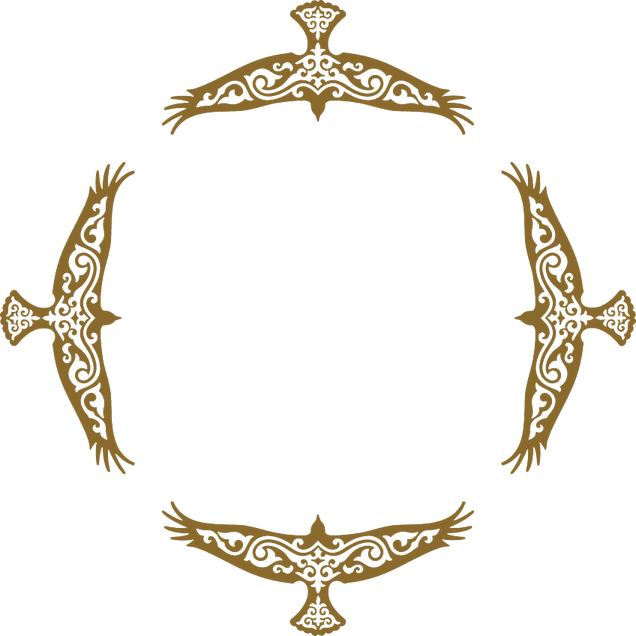
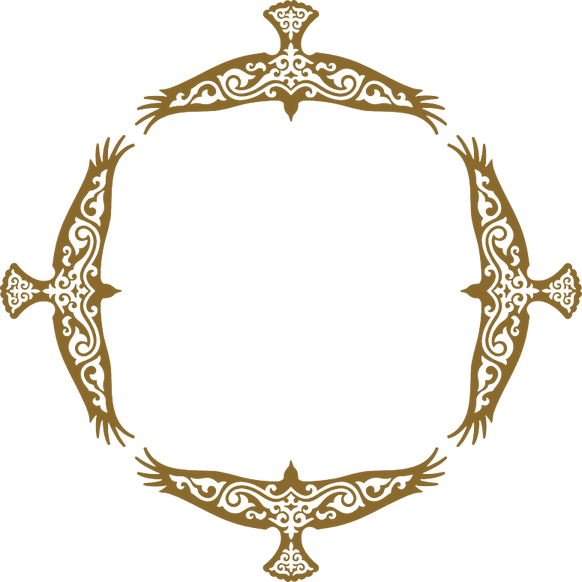
Беркуты ближе к QR
Claude-Session: https://claude.ai/code/session_01LKLLUYmWVCSWzeK83uVA7d

Changed region(s): [[0.2165, 0.0, 1.0, 0.7732], [0.0, 0.2165, 0.7732, 1.0]]

diff --git a/index.html b/index.html
@@ -89,7 +89,7 @@ body{letter-spacing:-.015em}
 .totop.show{opacity:1;transform:none;pointer-events:auto}
 .totop svg{width:22px;height:22px}
 .totop:focus-visible{outline:2px solid var(--gold);outline-offset:3px}
-.qrwrap{position:relative;z-index:11;width:212px;height:212px;margin:18px auto 0}
+.qrwrap{position:relative;z-index:11;width:194px;height:194px;margin:18px auto 0}
 .eagles img{width:100%;height:100%;display:block}
 </style>
 <div class="wrap">
@@ -117,7 +117,7 @@ body{letter-spacing:-.015em}
 </svg>
 </div>
   <div class="tag" id="tag"></div>
-  <div class="qrwrap"><picture class="eagles" aria-hidden="true"><source srcset="eagles-dark.png" media="(prefers-color-scheme: dark)"><img src="eagles.png" width="212" height="212" alt=""></picture><picture class="qr"><source srcset="qr-dark.png" media="(prefers-color-scheme: dark)"><img src="qr.png" width="92" height="92" alt="QR-код меню TAL"></picture></div>
+  <div class="qrwrap"><picture class="eagles" aria-hidden="true"><source srcset="eagles-dark.png" media="(prefers-color-scheme: dark)"><img src="eagles.png" width="194" height="194" alt=""></picture><picture class="qr"><source srcset="qr-dark.png" media="(prefers-color-scheme: dark)"><img src="qr.png" width="92" height="92" alt="QR-код меню TAL"></picture></div>
 </header>
 <div class="bar">
   <div class="lang" role="group" aria-label="Тіл / Язык">
